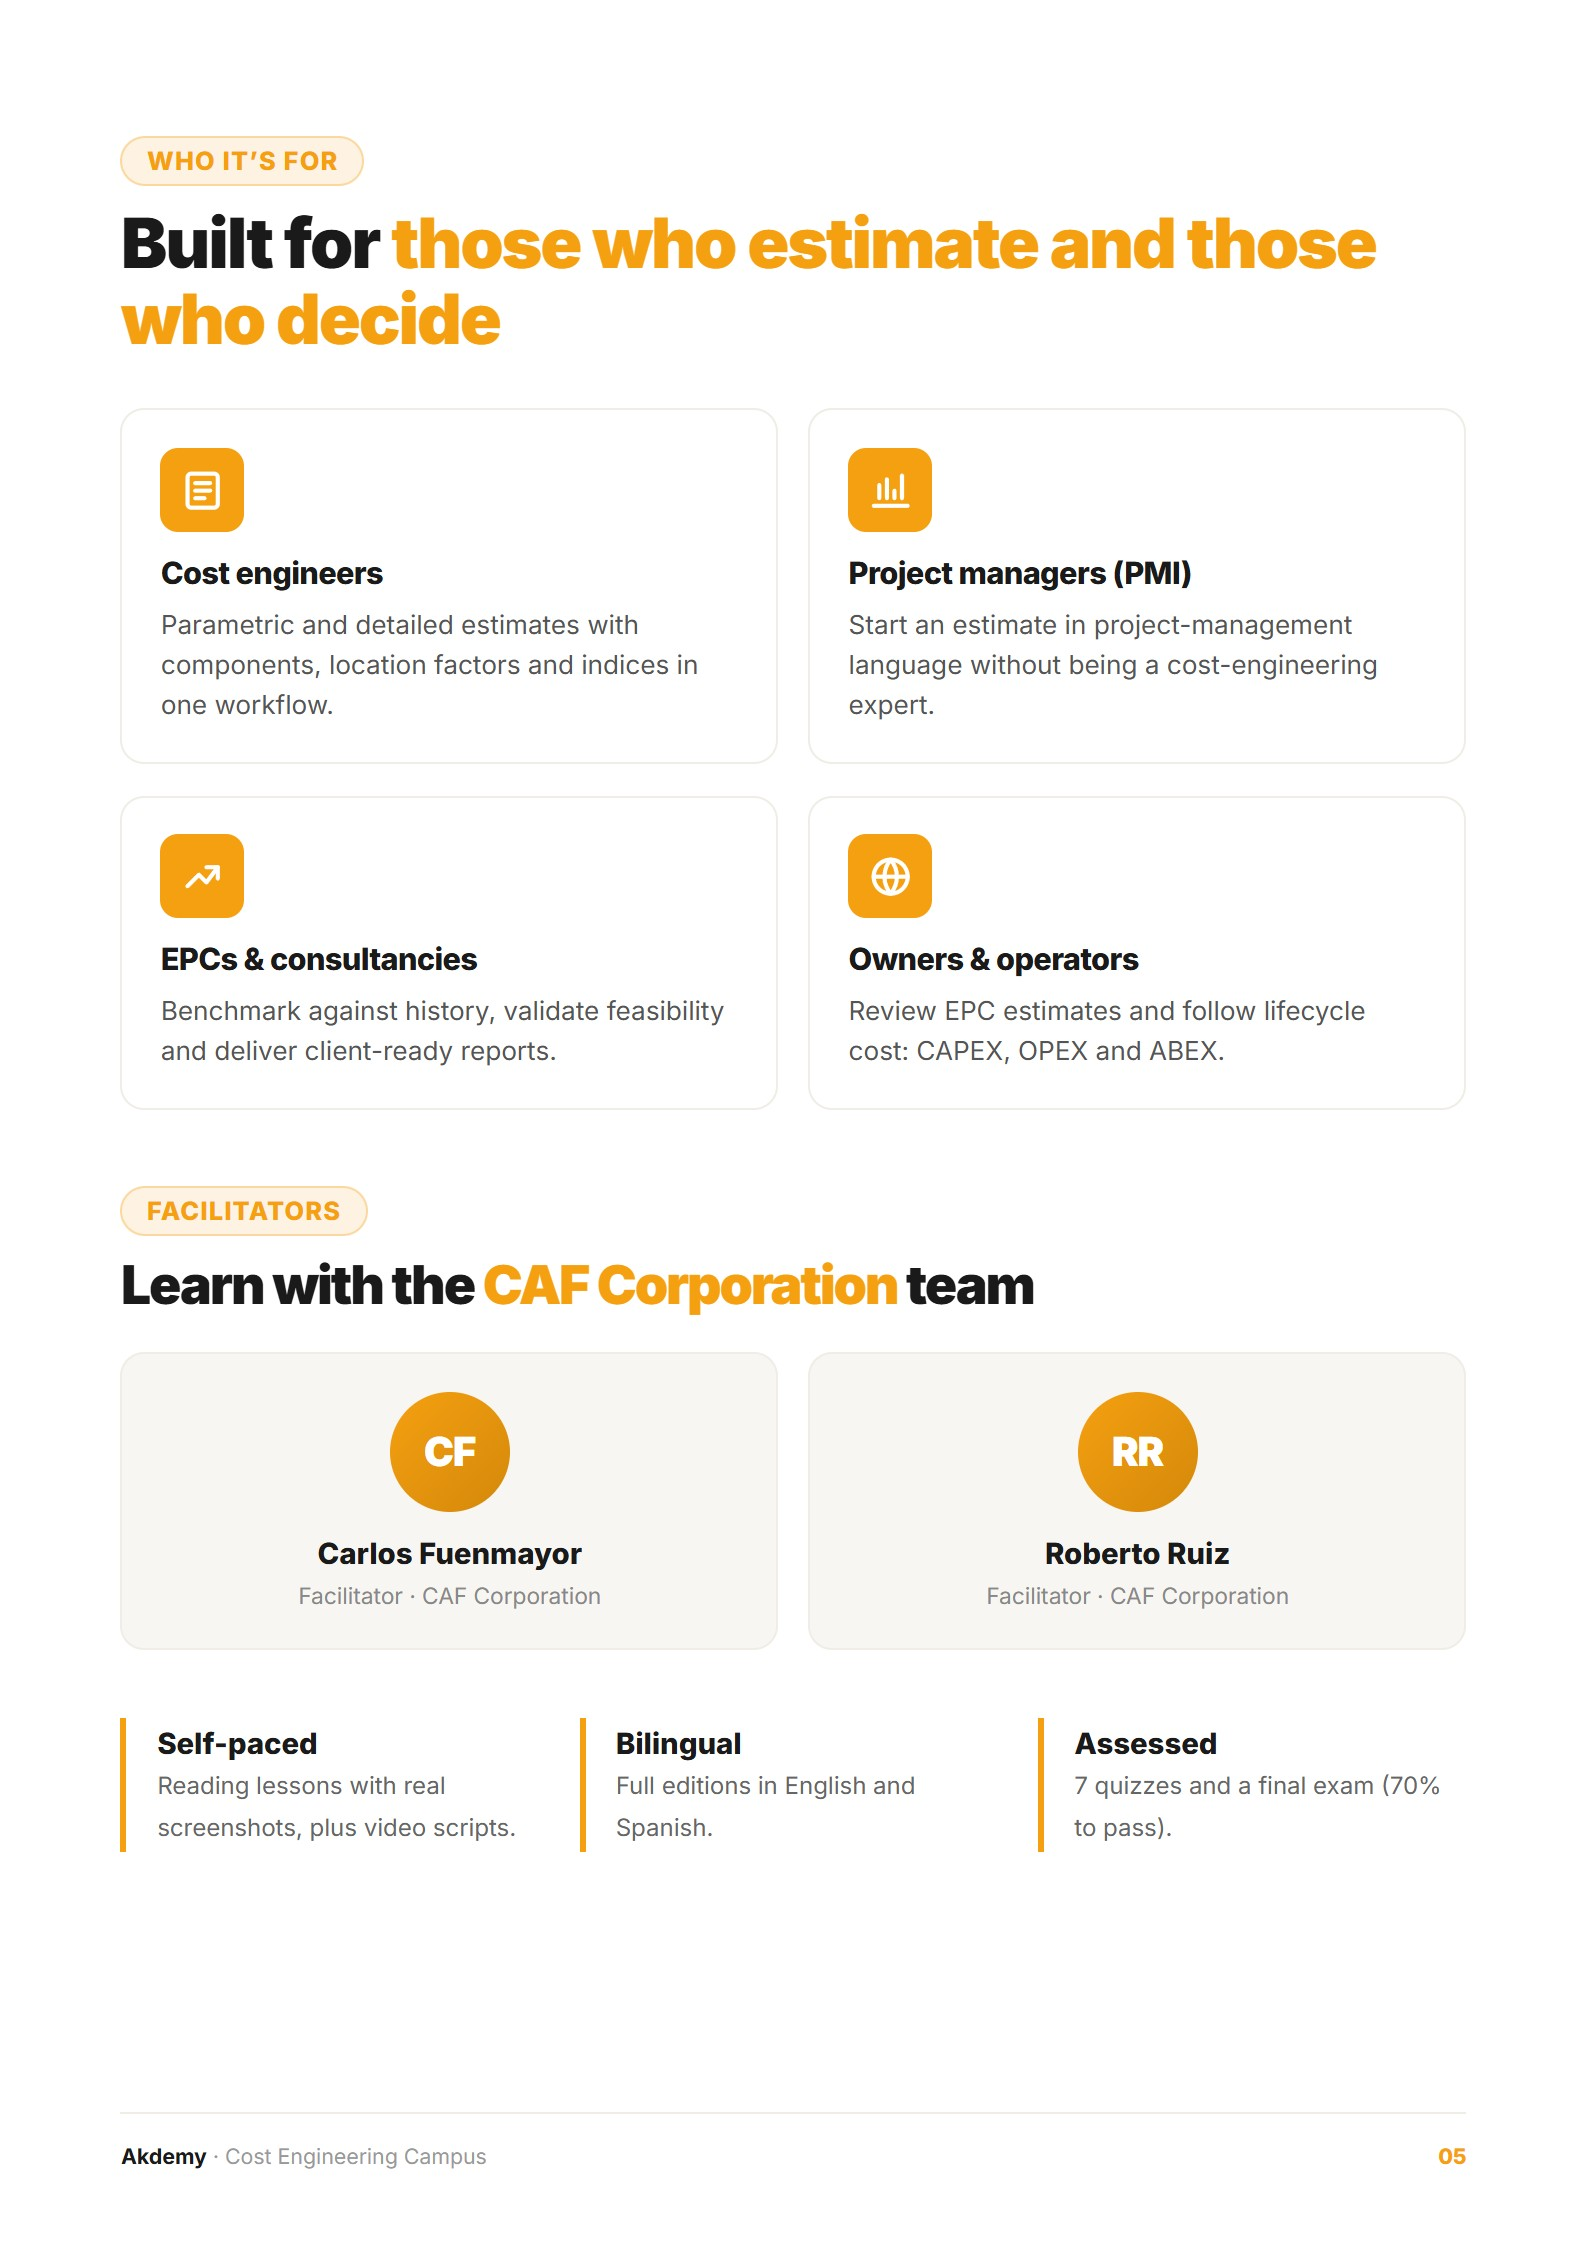
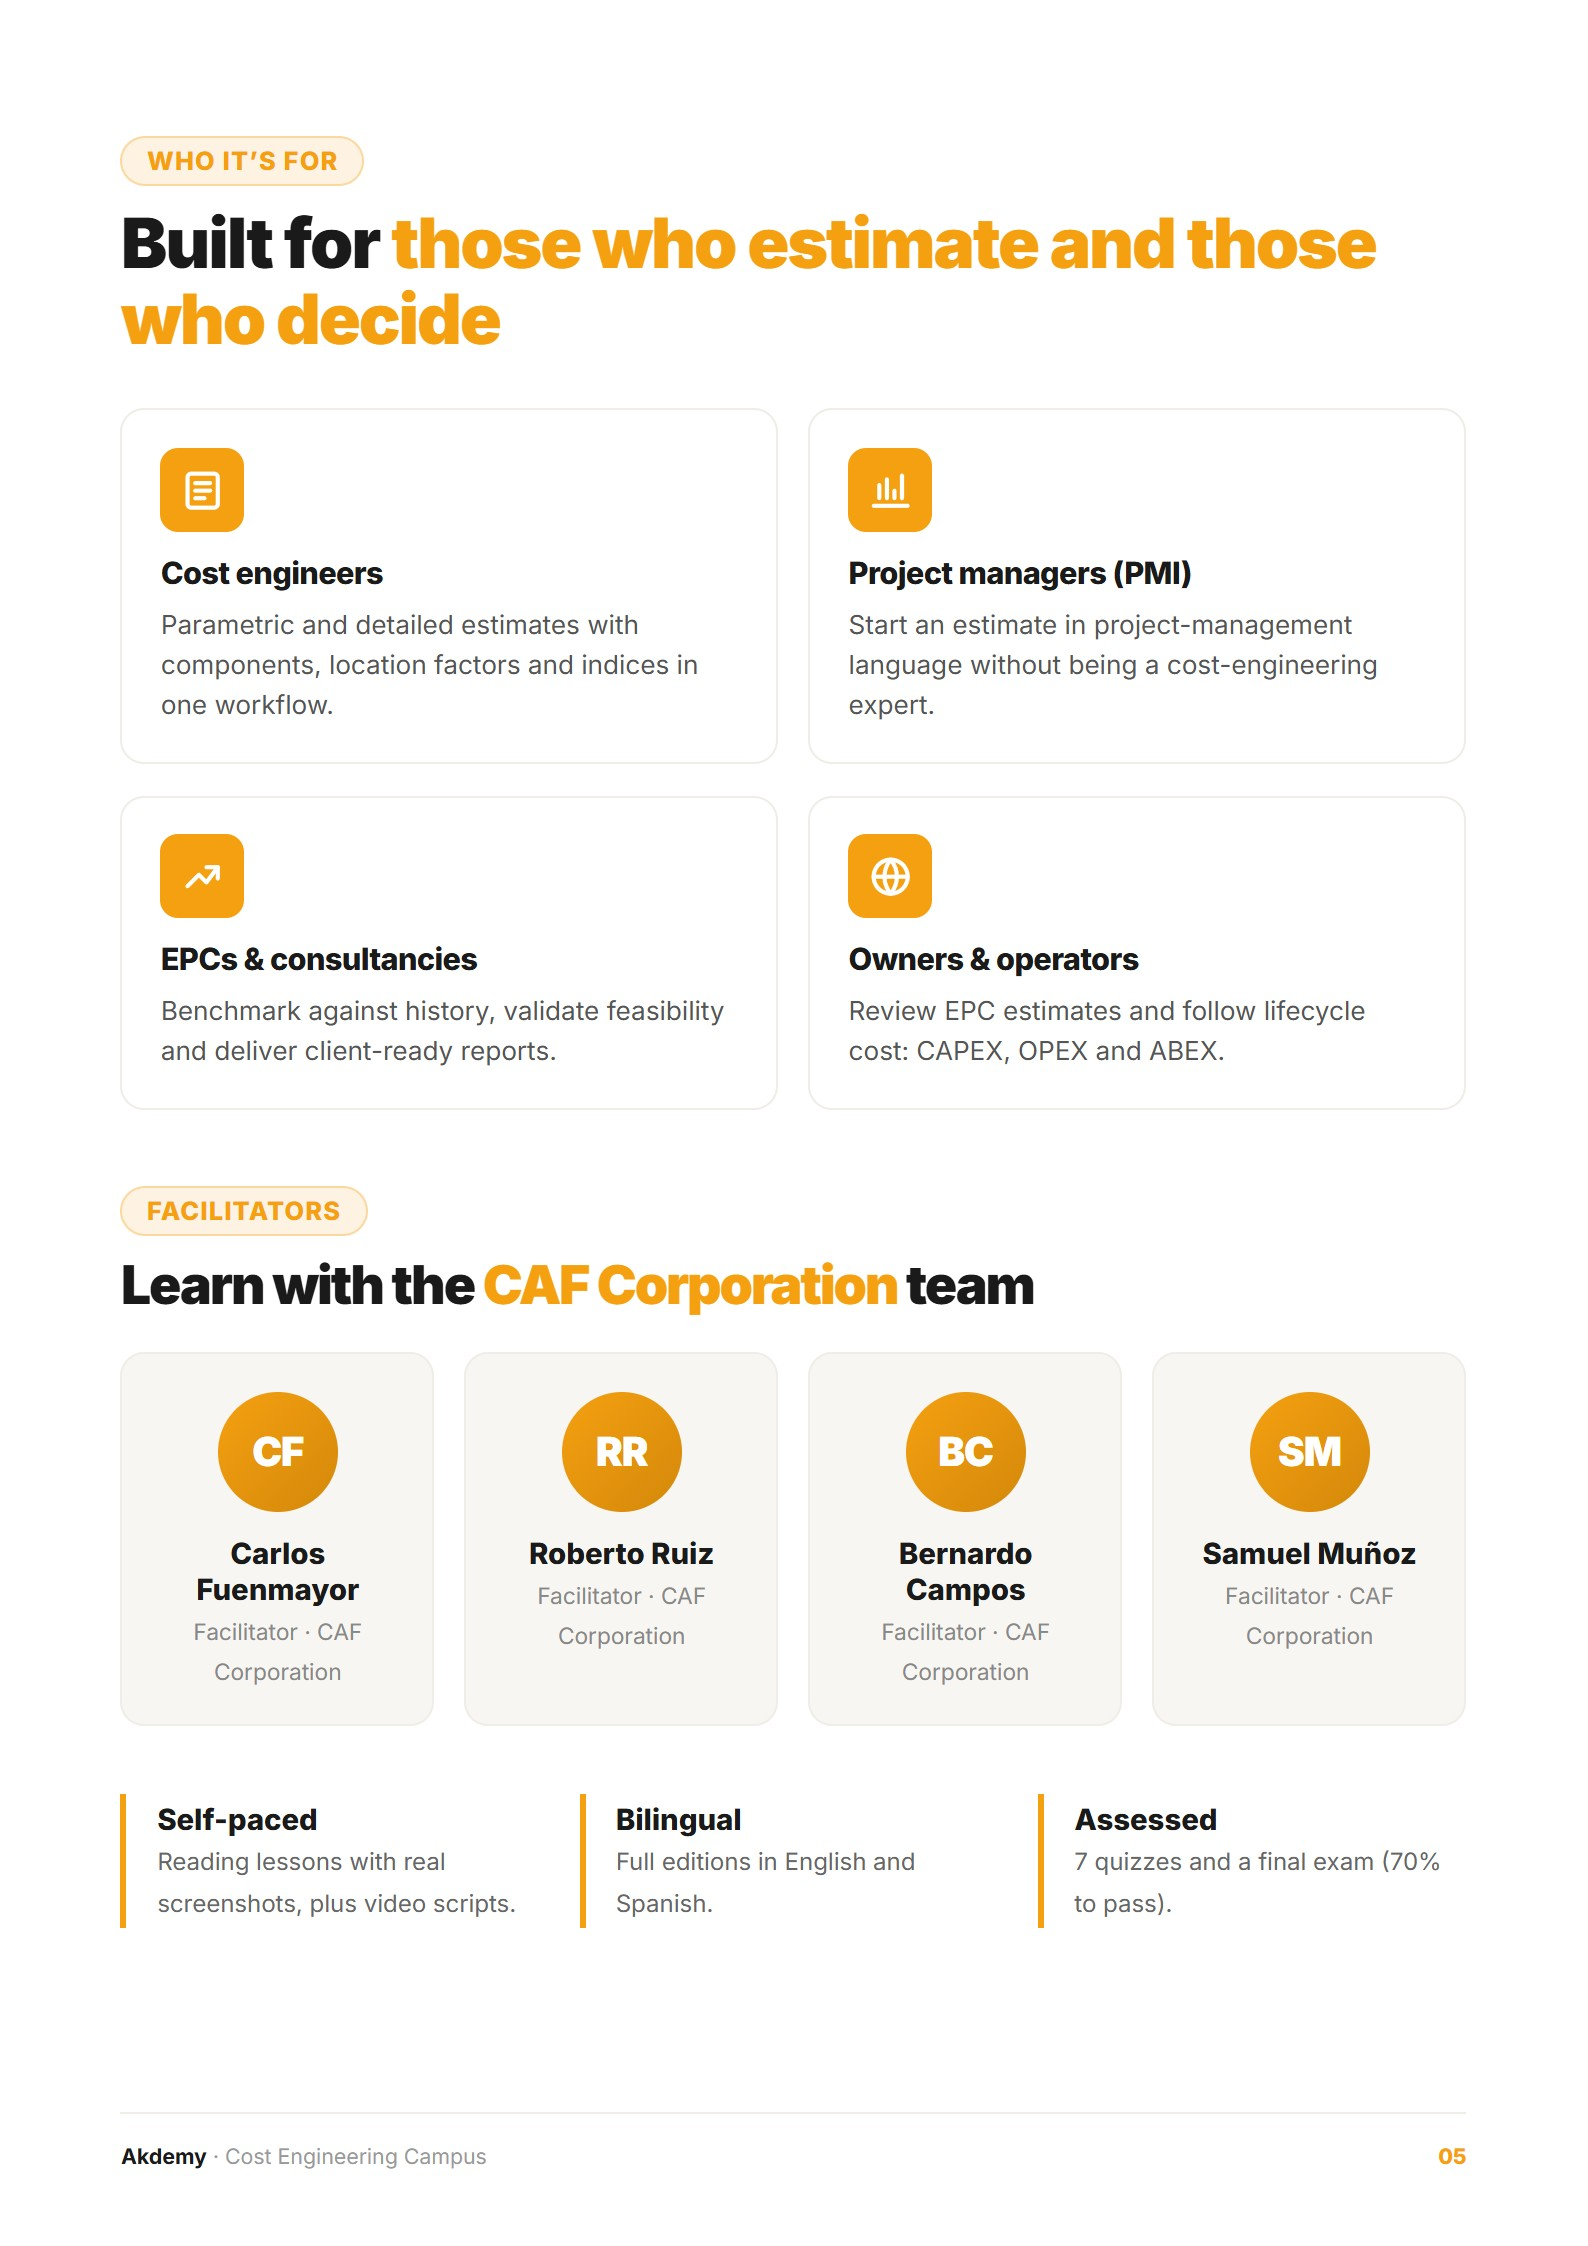
Brochure: iguala los facilitadores en la edición EN
La edición inglesa listaba 2 facilitadores; ahora los 4 (Carlos, Roberto,
Bernardo, Samuel), como en español. La rejilla se ajusta sola.

diff --git a/marketing/brochure/brochure.html b/marketing/brochure/brochure.html
@@ -375,7 +375,7 @@
         ['globe', 'Owners & operators', 'Review EPC estimates and follow lifecycle cost: CAPEX, OPEX and ABEX.'],
       ],
       facPill: 'Facilitators', facTitle: 'Learn with the <span>CAF Corporation</span> team',
-      facil: ['Carlos Fuenmayor', 'Roberto Ruiz'], role: 'Facilitator · CAF Corporation',
+      facil: ['Carlos Fuenmayor', 'Roberto Ruiz', 'Bernardo Campos', 'Samuel Muñoz'], role: 'Facilitator · CAF Corporation',
       format: [['Self-paced', 'Reading lessons with real screenshots, plus video scripts.'], ['Bilingual', 'Full editions in English and Spanish.'], ['Assessed', '7 quizzes and a final exam (70% to pass).']],
       offerPill: 'What you get', offerTitle: 'Everything included in <span>your enrolment</span>',
       gets: [
